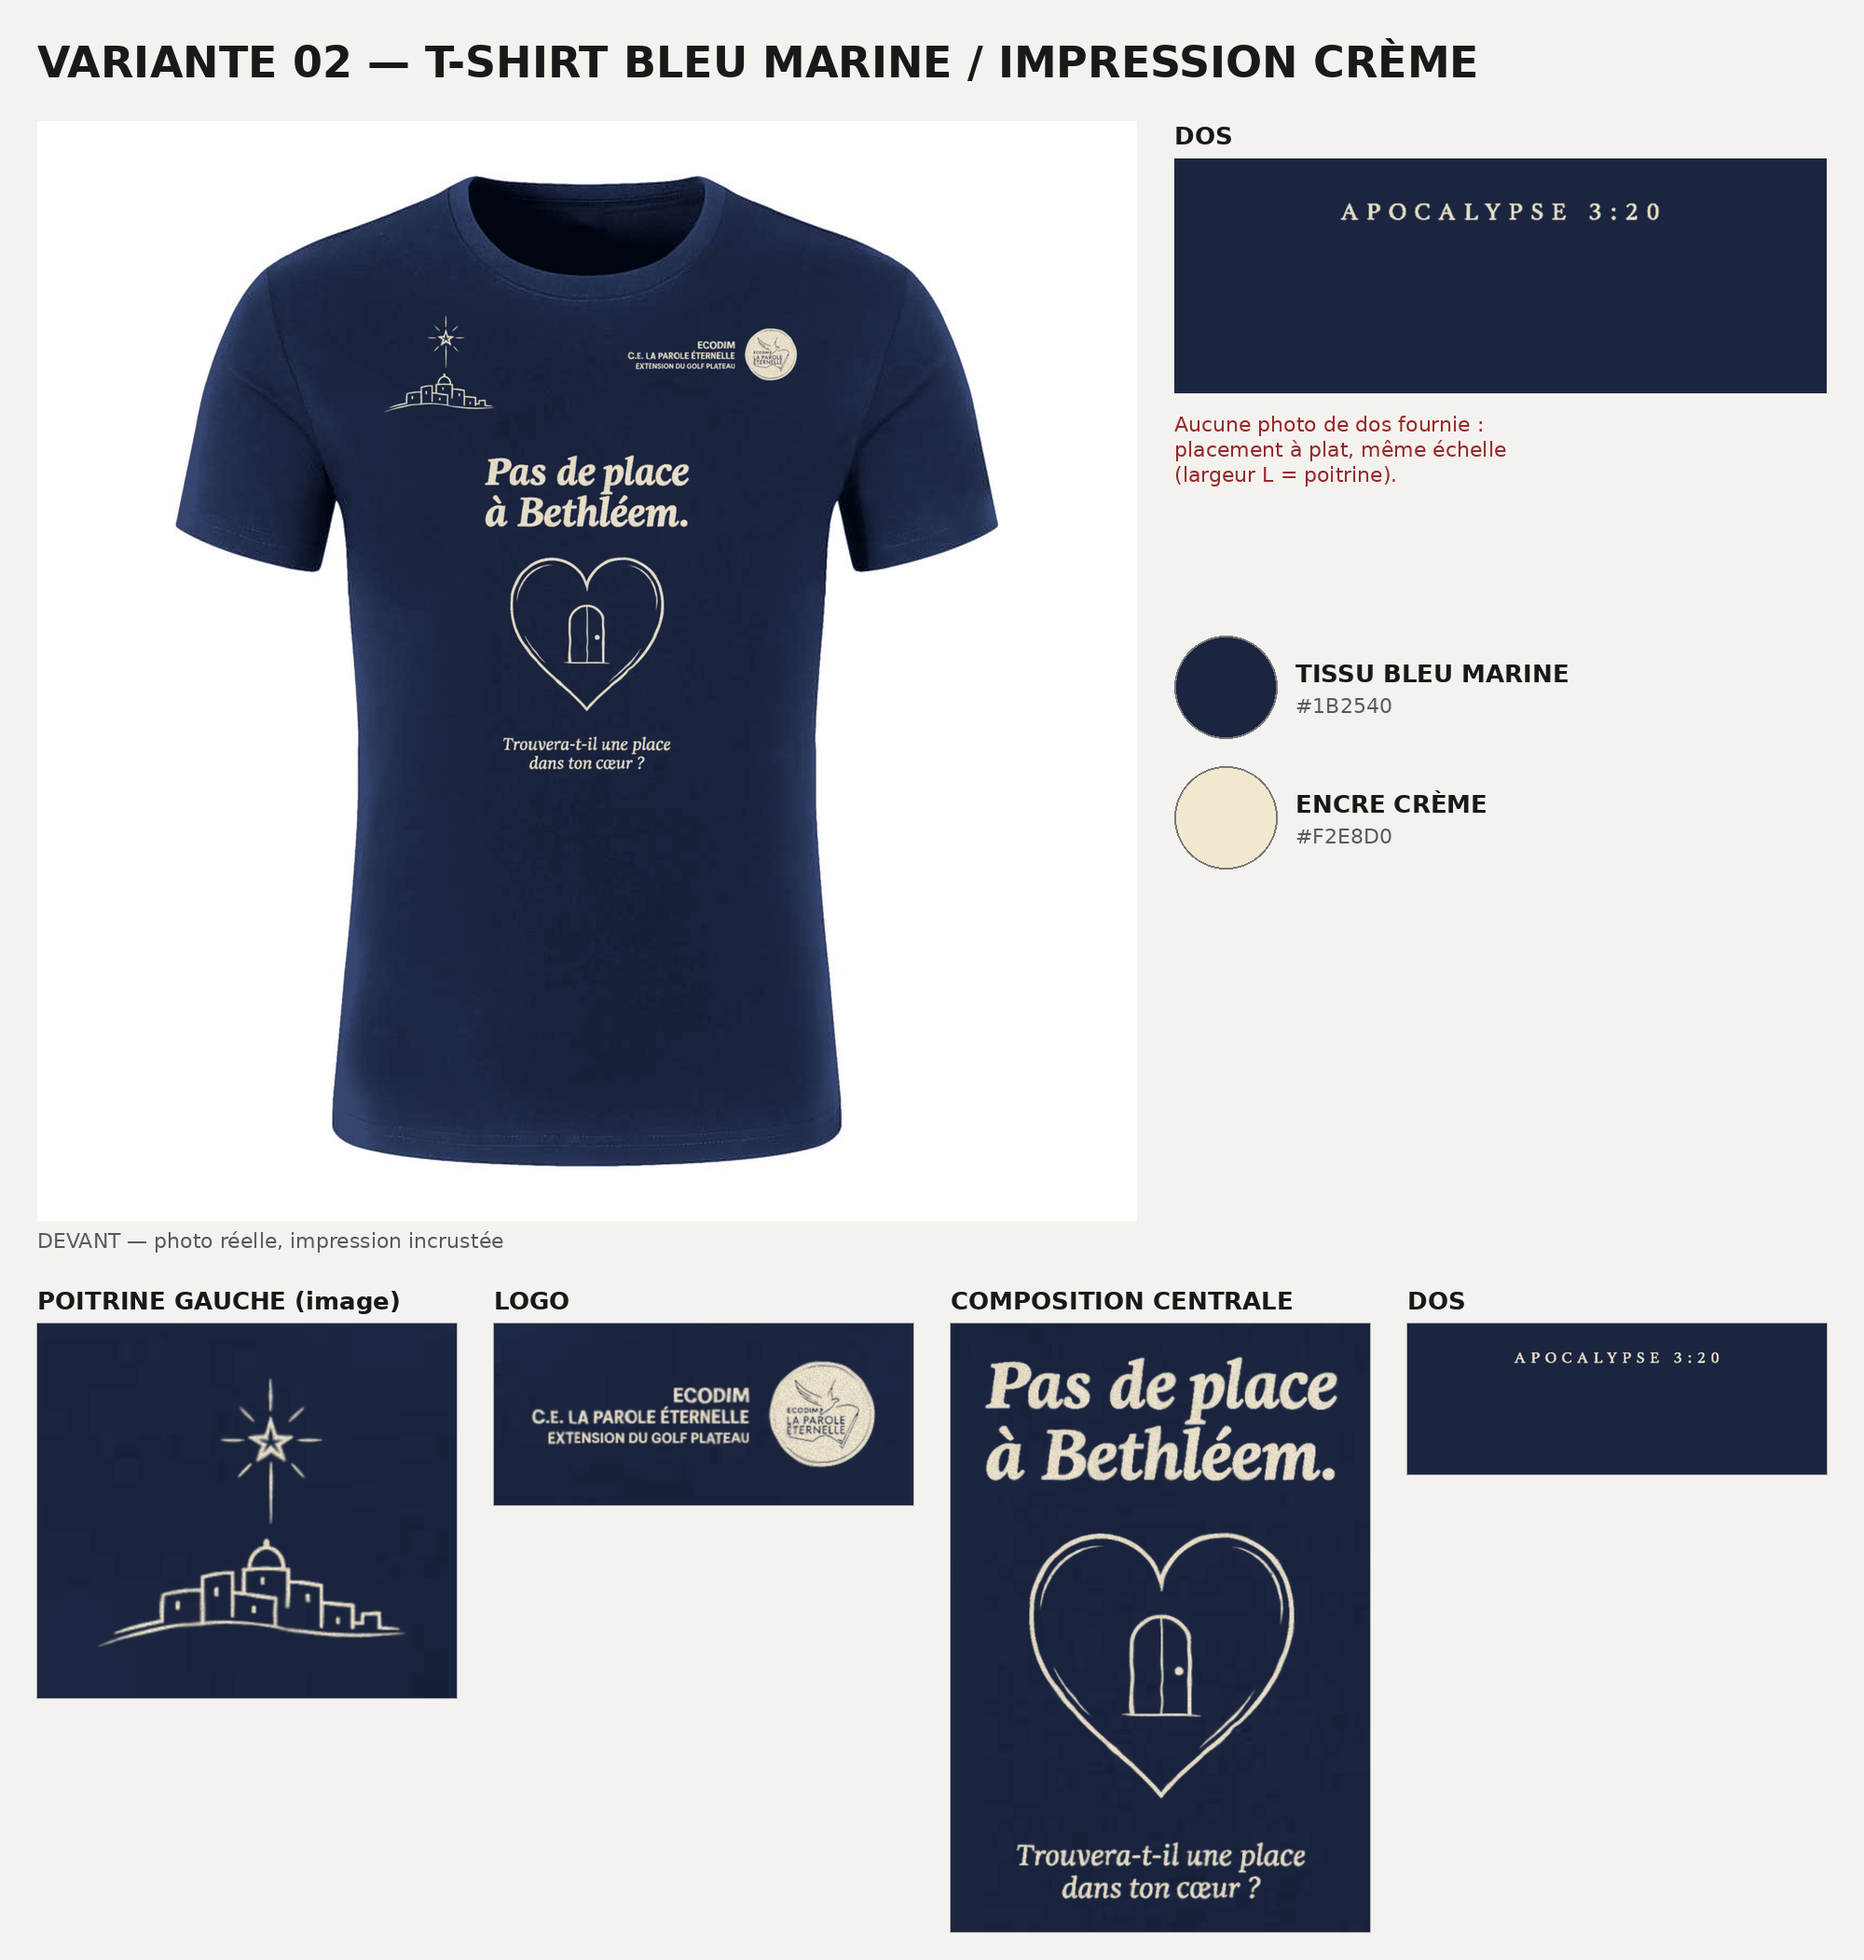
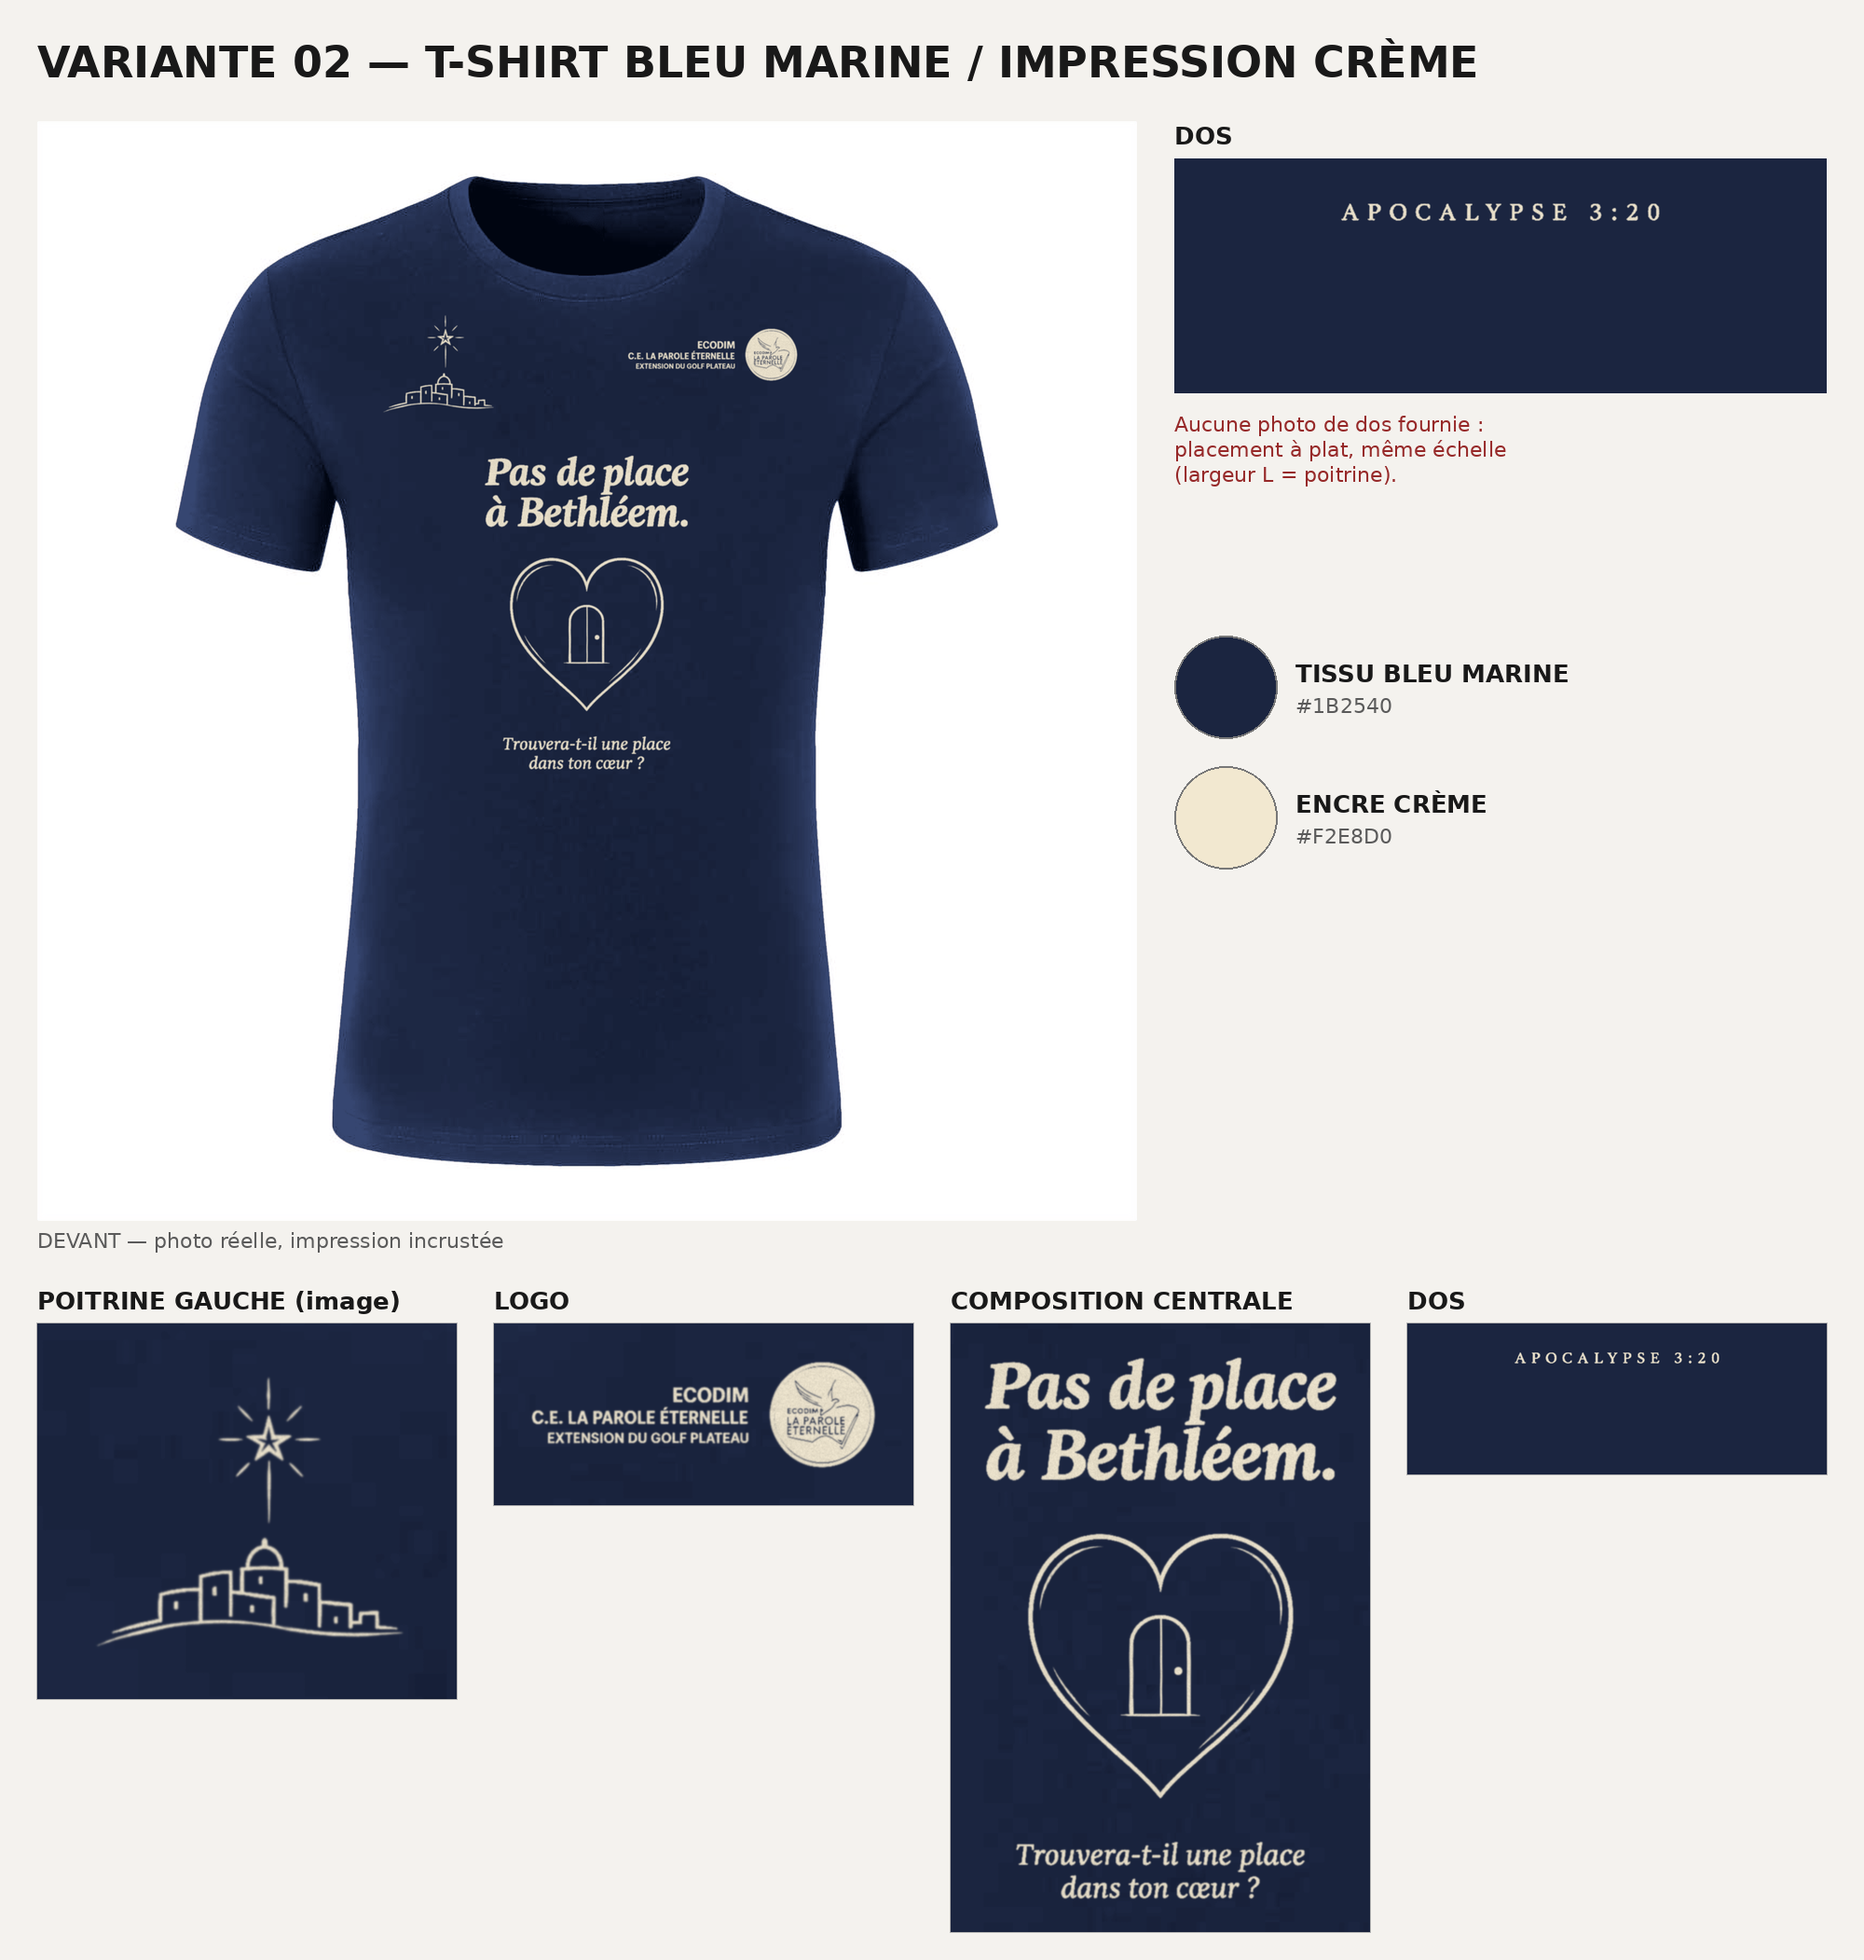
feat: upscale ECODIM t-shirt mockups x4 with ESRGAN
Claude-Session: https://claude.ai/code/session_01QXiuHPVEqLvWiVVZTToxoa

diff --git a/ecodim-tshirt/scripts/sr/sr.js b/ecodim-tshirt/scripts/sr/sr.js
@@ -1,0 +1,29 @@
+// usage: node sr.js in.raw W H out.raw   (raw = uint8 RGB)
+const fs = require('fs'), path = require('path');
+const tf = require('@tensorflow/tfjs');
+require('@tensorflow/tfjs-backend-wasm');
+const [,, inp, W, H, out] = process.argv; const w = +W, h = +H, S = 4, T = 128, O = 12;
+(async () => {
+  await tf.setBackend('wasm'); await tf.ready();
+  const dir = path.join(process.env.SR_MODULES || path.join(__dirname, 'node_modules'), '@upscalerjs/esrgan-medium/models/x4');
+  const mj = JSON.parse(fs.readFileSync(path.join(dir, 'model.json')));
+  const wb = fs.readFileSync(path.join(dir, mj.weightsManifest[0].paths[0]));
+  const model = await tf.loadLayersModel(tf.io.fromMemory({ modelTopology: mj.modelTopology,
+    weightSpecs: mj.weightsManifest[0].weights, weightData: wb.buffer.slice(wb.byteOffset, wb.byteOffset + wb.length) }));
+  const src = new Uint8Array(fs.readFileSync(inp)); const dst = new Uint8Array(w * S * h * S * 3);
+  const img = tf.tensor3d(src, [h, w, 3], 'int32').toFloat();
+  const t0 = Date.now(); let n = 0;
+  for (let y = 0; y < h; y += T) for (let x = 0; x < w; x += T) {
+    const x0 = Math.max(0, x - O), y0 = Math.max(0, y - O);
+    const x1 = Math.min(w, x + T + O), y1 = Math.min(h, y + T + O);
+    const r = tf.tidy(() => model.predict(img.slice([y0, x0, 0], [y1 - y0, x1 - x0, 3]).expandDims(0)).squeeze().clipByValue(0, 255).round().toInt());
+    const d = r.dataSync(); r.dispose(); const rw = (x1 - x0) * S;
+    const cx0 = (x - x0) * S, cy0 = (y - y0) * S, cw = (Math.min(w, x + T) - x) * S, ch = (Math.min(h, y + T) - y) * S;
+    for (let j = 0; j < ch; j++) for (let i = 0; i < cw; i++) {
+      const s = ((cy0 + j) * rw + cx0 + i) * 3, t = ((y * S + j) * w * S + x * S + i) * 3;
+      dst[t] = d[s]; dst[t + 1] = d[s + 1]; dst[t + 2] = d[s + 2];
+    }
+    n++;
+  }
+  fs.writeFileSync(out, dst); console.log('tiles', n, 'sec', (Date.now() - t0) / 1000);
+})();

diff --git a/ecodim-tshirt/scripts/mockup.py b/ecodim-tshirt/scripts/mockup.py
@@ -8,7 +8,7 @@ from layout import render
 
 D = sys.argv[1]; OUT = os.path.join(D, 'out'); os.makedirs(OUT, exist_ok=True)
 LAY = json.load(open(os.path.join(OUT, 'layout.json')))
-UP = 2            # work at 2x the photo size so the small logo text stays legible
+UP = 4            # working scale vs the supplied photo (x4 ESRGAN photos when present)
 TOP_OFFSET = 0.27 # print area starts 0.27 L under the top of the collar (clears the neckline)
 FONT = '/usr/share/fonts/truetype/dejavu/DejaVuSans-Bold.ttf'
 FONT_R = '/usr/share/fonts/truetype/dejavu/DejaVuSans.ttf'
@@ -41,28 +41,32 @@ def recolour(rgb, m, target):
 
 def print_ink(fab, shade, m, alpha, ink, dark_ink, displace=True):
     # displacement map from the fabric luminance: the print follows the folds
-    lb = cv2.GaussianBlur(shade.astype(np.float32), (0, 0), 4)
+    lb = cv2.GaussianBlur(shade.astype(np.float32), (0, 0), 3 * UP)  # folds only, not the knit texture
     gy, gx = np.gradient(lb)
     h, w = alpha.shape
     X, Y = np.meshgrid(np.arange(w, dtype=np.float32), np.arange(h, dtype=np.float32))
-    k = 2.5 * UP / max(1e-6, np.percentile(np.abs(np.r_[gx[m], gy[m]]), 99)) if displace else 0.0
+    k = 1.2 * UP / max(1e-6, np.percentile(np.abs(np.r_[gx[m], gy[m]]), 99)) if displace else 0.0
     a = cv2.remap(alpha, X + gx * k, Y + gy * k, cv2.INTER_LINEAR)
-    a = cv2.GaussianBlur(a, (0, 0), 0.5) * m * 0.95
+    a = cv2.GaussianBlur(a, (0, 0), 0.3 * UP) * m * 0.95
     p = 1.0 if dark_ink else 0.45  # multiply for dark ink, partial shading for light ink
     sh = np.clip(shade, 0.3, 1.6) ** p
-    grain = 1 + rng.normal(0, 0.035, a.shape).astype(np.float32)
+    grain = 1 + cv2.GaussianBlur(rng.normal(0, 0.05, a.shape).astype(np.float32), (0, 0), UP / 4)
     printed = np.clip(ink * (sh * grain)[..., None], 0, 255)
     return fab * (1 - a[..., None]) + printed * a[..., None]
 
 def make(v):
     fn, fname, fhex, iname, ihex, labels = v
-    im = Image.open(os.path.join(D, 'photos', fn)).convert('RGB')
-    rgb = np.asarray(im).copy()
-    if labels:  # remove neck labels (brand/size): excluded from the fabric
-        lm = np.zeros(rgb.shape[:2], np.uint8)
-        for x0, y0, x1, y1 in labels: lm[y0:y1, x0:x1] = 1
-        rgb = cv2.inpaint(rgb, lm, 5, cv2.INPAINT_TELEA)
-    rgb = np.asarray(Image.fromarray(rgb).resize((im.width * UP, im.height * UP), Image.LANCZOS)).astype(np.float32)
+    sr = os.path.join(D, 'photos_x4', fn[:-4] + '.png')
+    if os.path.exists(sr):  # labels already removed, x4 ESRGAN (scripts/sr_photos.py)
+        rgb = np.asarray(Image.open(sr).convert('RGB')).astype(np.float32)
+    else:
+        im = Image.open(os.path.join(D, 'photos', fn)).convert('RGB')
+        rgb = np.asarray(im).copy()
+        if labels:  # remove neck labels (brand/size): excluded from the fabric
+            lm = np.zeros(rgb.shape[:2], np.uint8)
+            for x0, y0, x1, y1 in labels: lm[y0:y1, x0:x1] = 1
+            rgb = cv2.inpaint(rgb, lm, 5, cv2.INPAINT_TELEA)
+        rgb = np.asarray(Image.fromarray(rgb).resize((im.width * UP, im.height * UP), Image.LANCZOS)).astype(np.float32)
     m, _ = shirt_mask(rgb.astype(np.uint8)); g = geometry(m)
     fab, shade = recolour(rgb, m, hexrgb(fhex))
     L = g['L']; x0 = int(round(g['cx'] - L / 2)); y0 = int(round(g['top'] + TOP_OFFSET * L))
@@ -142,13 +146,14 @@ if __name__ == '__main__':
         board(i, r).save(os.path.join(OUT, f'planche_variante_0{i}_{slug}.png'))
         g = r['g']; print(i, slug, 'L=%.0f' % r['L'], 'top=%d' % g['top'])
     # overview of the 6 variants
-    tw = 640; ft = ImageFont.truetype(FONT, 24); fr = ImageFont.truetype(FONT_R, 20)
-    ov = Image.new('RGB', (3 * tw + 4 * 30, 2 * 990 + 120), (244, 242, 238)); d = ImageDraw.Draw(ov)
-    d.text((30, 30), 'ECODIM — T-SHIRTS DE NOËL : LES 6 VARIANTES (DEVANT + DOS À PLAT)', font=ImageFont.truetype(FONT, 34), fill=(25, 25, 25))
+    tw = 1240; ft = ImageFont.truetype(FONT, 44); fr = ImageFont.truetype(FONT_R, 36)
+    ov = Image.new('RGB', (3 * tw + 4 * 50, 2 * 1880 + 200), (244, 242, 238)); d = ImageDraw.Draw(ov)
+    d.text((50, 50), 'ECODIM — T-SHIRTS DE NOËL : LES 6 VARIANTES (DEVANT + DOS À PLAT)', font=ImageFont.truetype(FONT, 64), fill=(25, 25, 25))
     for i, r in enumerate(res):
-        x = 30 + (i % 3) * (tw + 30); y = 100 + (i // 3) * 990
+        x = 50 + (i % 3) * (tw + 50); y = 180 + (i // 3) * 1880
         d.text((x, y), f'0{i+1} — {r["title"]}', font=ft, fill=(25, 25, 25))
-        f = fit(r['final'], tw, tw); ov.paste(f, (x, y + 40))
-        bk = fit(r['back'], tw, 300); ov.paste(bk, (x, y + 50 + f.height))
-        d.text((x, y + 55 + f.height + bk.height), 'dos (à plat)', font=fr, fill=(110, 110, 110))
-    ov.save(os.path.join(OUT, 'apercu_6_variantes.png'))
+        f = fit(r['final'], tw, tw); ov.paste(f, (x, y + 70))
+        bk = fit(r['back'], tw, 520); ov.paste(bk, (x, y + 90 + f.height))
+        d.text((x, y + 100 + f.height + bk.height), 'dos (à plat)', font=fr, fill=(110, 110, 110))
+    ov.save(os.path.join(OUT, 'apercu_6_variantes_HD.png'))
+    small = ov.copy(); small.thumbnail((2000, 2000), Image.LANCZOS); small.save(os.path.join(OUT, 'apercu_6_variantes.png'))

diff --git a/ecodim-tshirt/scripts/layout.py b/ecodim-tshirt/scripts/layout.py
@@ -2,7 +2,7 @@
 Usage: python layout.py <dir> [L_cm=50] [dpi=150]"""
 import sys, os, json, numpy as np
 from PIL import Image
-D = sys.argv[1]; L_CM = float(sys.argv[2]) if len(sys.argv) > 2 else 50; DPI = int(sys.argv[3]) if len(sys.argv) > 3 else 150
+D = sys.argv[1]
 EL = os.path.join(D, 'out', 'elements')
 el = {k[:-4]: Image.open(os.path.join(EL, k)) for k in os.listdir(EL)}
 W = lambda k: el[k].width; H = lambda k: el[k].height
@@ -43,12 +43,16 @@ def render(boxes, Lpx, height_L):
     for k, (x, y, w, h) in boxes.items():
         im = el[k].resize((max(1, round(w * Lpx)), max(1, round(h * Lpx))), Image.LANCZOS)
         m = np.asarray(im, np.float32) / 255
+        f = w * Lpx / el[k].width  # enlargement factor
+        if f > 1.5:  # re-sharpen the anti-aliased edge to about 1.5 output px
+            m = np.clip((m - 0.5) * min(f / 1.5, 4) + 0.5, 0, 1)
         x0, y0 = round(x * Lpx), round(y * Lpx)
         sub = a[y0:y0 + m.shape[0], x0:x0 + m.shape[1]]
         np.maximum(sub, m[:sub.shape[0], :sub.shape[1]], out=sub)
     return a
 
 if __name__ == '__main__':
+    L_CM = float(sys.argv[2]) if len(sys.argv) > 2 else 50; DPI = int(sys.argv[3]) if len(sys.argv) > 3 else 150
     lay = layout()
     json.dump(lay, open(os.path.join(D, 'out', 'layout.json'), 'w'), indent=1)
     Lpx = round(L_CM / 2.54 * DPI)

diff --git a/ecodim-tshirt/scripts/sr_photos.py b/ecodim-tshirt/scripts/sr_photos.py
@@ -1,0 +1,24 @@
+"""Remove neck labels, then upscale each photo x4 with ESRGAN (UpscalerJS esrgan-medium, MIT) run by node.
+Usage: python sr_photos.py <dir> <path to sr.js>"""
+import sys, os, subprocess, numpy as np, cv2
+from PIL import Image
+sys.path.insert(0, os.path.dirname(__file__))
+from mockup import VARIANTS
+D, SRJS = sys.argv[1], sys.argv[2]
+os.makedirs(os.path.join(D, 'photos_x4'), exist_ok=True)
+procs = []
+for fn, *_, labels in VARIANTS:
+    rgb = np.asarray(Image.open(os.path.join(D, 'photos', fn)).convert('RGB')).copy()
+    if labels:
+        lm = np.zeros(rgb.shape[:2], np.uint8)
+        for x0, y0, x1, y1 in labels: lm[y0:y1, x0:x1] = 1
+        rgb = cv2.inpaint(rgb, lm, 5, cv2.INPAINT_TELEA)
+    base = os.path.join(D, 'photos_x4', fn[:-4])
+    rgb.tofile(base + '.in.raw')
+    procs.append((subprocess.Popen(['node', SRJS, base + '.in.raw', str(rgb.shape[1]), str(rgb.shape[0]), base + '.out.raw']), base, rgb.shape))
+for p, base, (h, w, _) in procs:
+    p.wait()
+    a = np.fromfile(base + '.out.raw', np.uint8).reshape(h * 4, w * 4, 3)
+    Image.fromarray(a).save(base + '.png')
+    os.remove(base + '.in.raw'); os.remove(base + '.out.raw')
+    print('ok', base)

diff --git a/ecodim-tshirt/README.md b/ecodim-tshirt/README.md
@@ -5,7 +5,8 @@ Run from this folder:
 ```bash
 python3 -I scripts/extract.py .            # design elements -> out/elements/, out/planche_controle_decoupes.png
 python3 -I scripts/layout.py . 50 150      # out/layout.json + print files (L = 50 cm, 150 dpi)
-python3 -I scripts/mockup.py .             # 6 photo mockups, 6 boards, out/apercu_6_variantes.png
+python3 -I scripts/sr_photos.py . <sr.js>   # optional: remove neck labels + x4 ESRGAN -> photos_x4/
+python3 -I scripts/mockup.py .             # 6 photo mockups (4000 px), 6 boards, overview (+ _HD 3920 px)
 ```
 
 - `affiche.jpg`, `logo.png`: official sources.
@@ -13,3 +14,10 @@ python3 -I scripts/mockup.py .             # 6 photo mockups, 6 boards, out/aper
 - `out/impression_devant_*.png`, `out/impression_dos_*.png`: transparent black print files.
 - `photos/`: one front photo per variant (supplied by the owner, licence unknown: see `sources.txt`).
 - No back photo was supplied: the back is shown flat at the same scale.
+
+## Upscale (x4)
+
+`scripts/sr_photos.py` runs the ESRGAN model `@upscalerjs/esrgan-medium` (MIT, npm) with
+TensorFlow.js (wasm backend) through a small node script `sr.js` (tiles of 128 px). Setup:
+`npm install --legacy-peer-deps @upscalerjs/esrgan-medium@1.0.0 @tensorflow/tfjs@4.22.0 @tensorflow/tfjs-backend-wasm@4.22.0`.
+The model removes JPEG artefacts and sharpens edges. It does not add real fabric detail.
